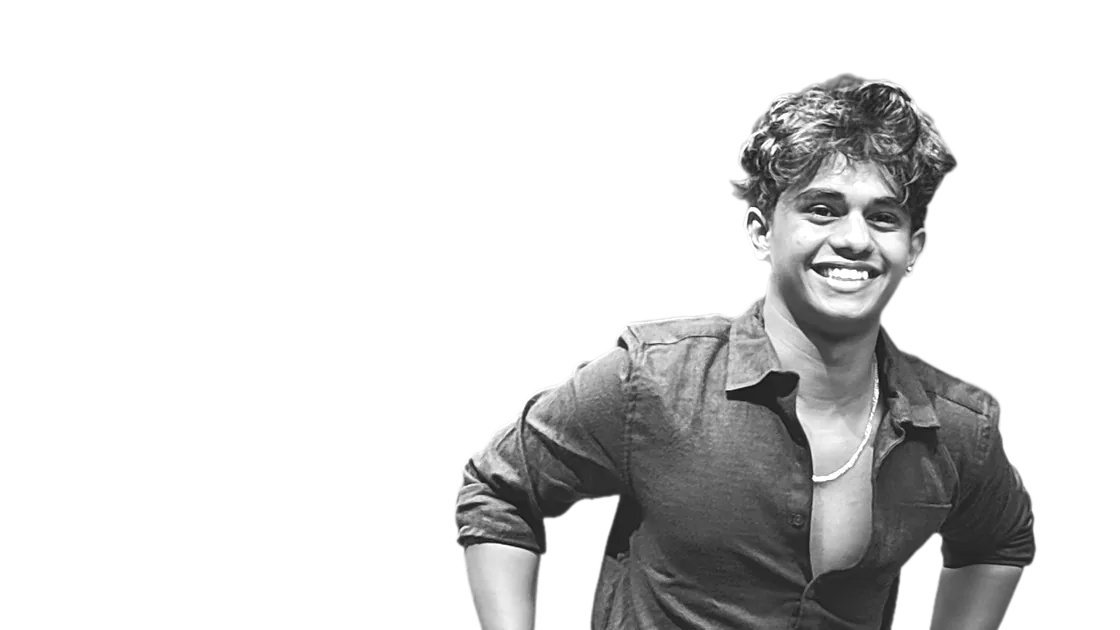
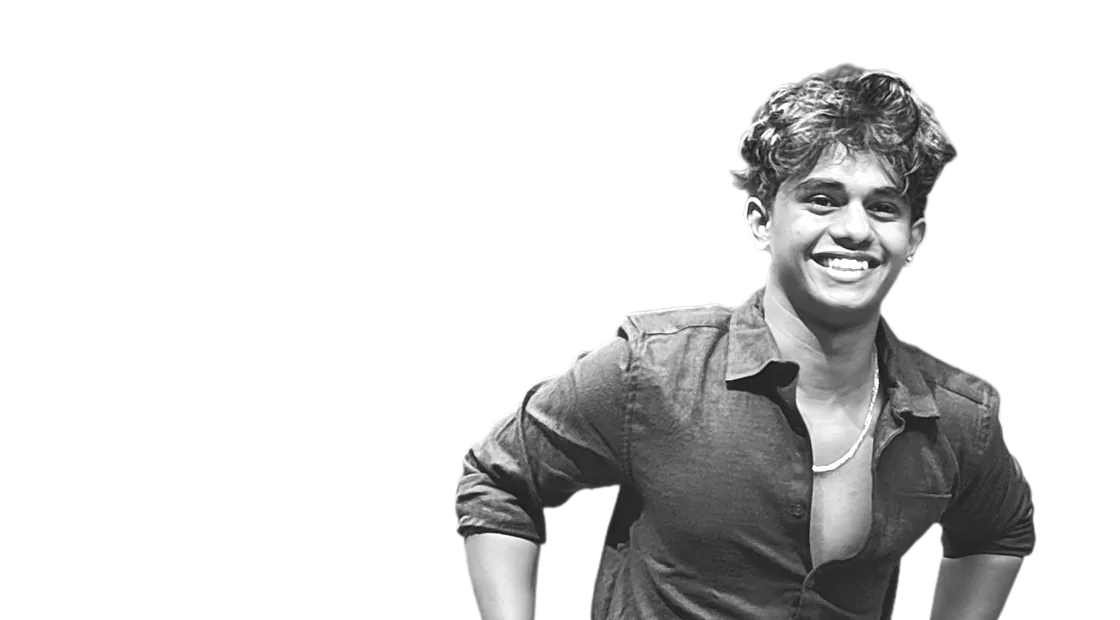
Make the founder bigger than the other two instead of lighting him brighter

Changed region(s): [[0.4062, 0.0919, 0.9062, 0.8887], [0.8125, 0.8274, 0.8438, 0.8887], [0.875, 0.8887, 0.9062, 0.9194]]

diff --git a/src/components/Team.tsx b/src/components/Team.tsx
@@ -8,10 +8,8 @@ import sudhir from "../../public/media/team-sudhir.webp";
 import ajay from "../../public/media/team-ajay.webp";
 
 const LAYERS = { suhail, sudhir, ajay };
-// Back to front: Suhail, the founder, stands in the centre and in front.
+// Back to front: Suhail, the founder, stands in the centre, larger and in front.
 const PAINT = ["sudhir", "ajay", "suhail"] as const;
-// Lit a little brighter than the others while nobody is pointed at.
-const LEAD = "suhail";
 
 /**
  * The team as one black and white group photo, the founder in the centre on a dark studio backdrop,
@@ -67,7 +65,7 @@ export default function Team() {
           <span
             className="team-glow"
             aria-hidden="true"
-            style={{ left: `${m ? m.x : 50}%`, opacity: m ? 1 : 0.8 }}
+            style={{ left: `${m ? m.x : 50}%`, opacity: m ? 1 : 0 }}
           />
           {PAINT.map((id) => {
             const i = TEAM.findIndex((t) => t.id === id);
@@ -78,7 +76,7 @@ export default function Team() {
                 alt=""
                 aria-hidden="true"
                 sizes="(max-width: 1180px) 100vw, 1100px"
-                className={`team-layer ${active === i ? "is-active" : ""} ${id === LEAD ? "is-lead" : ""}`}
+                className={`team-layer ${active === i ? "is-active" : ""}`}
               />
             );
           })}

diff --git a/src/app/globals.css b/src/app/globals.css
@@ -1244,7 +1244,7 @@
   }
   .team-photo {
     position: relative;
-    aspect-ratio: 1120 / 630;
+    aspect-ratio: 1120 / 620;
   }
   .team-layer {
     position: absolute;
@@ -1254,10 +1254,6 @@
     transition:
       filter 0.45s var(--ease-out-soft),
       transform 0.5s var(--ease-out-soft);
-  }
-  /* At rest the founder in the centre is lit a touch brighter than the others. */
-  .team-stage:not(.has-active) .team-layer:not(.is-lead) {
-    filter: brightness(0.8);
   }
   .has-active .team-layer {
     filter: brightness(0.3) contrast(0.9);

diff --git a/scripts/team_photo.py b/scripts/team_photo.py
@@ -28,18 +28,18 @@ DEEP = (29, 31, 56)
 # the chin and the face centre. Faces are scaled so eye-to-chin matches.
 PEOPLE = {
     "sudhir": dict(file="sudhir.jpg", eye=890, chin=998, cx=846, scale=1.0, x=430, lift=0),
-    "suhail": dict(file="suhail.heic", eye=1130, chin=1250, cx=650, scale=1.16, x=720, lift=22),
+    "suhail": dict(file="suhail.heic", eye=1130, chin=1250, cx=650, scale=1.36, x=720, lift=8),
     "ajay": dict(file="ajay.heic", eye=1030, chin=1165, cx=1092, scale=1.0, x=1010, lift=0),
 }
 # Painted back to front: Suhail, the founder, stands in the centre and in
-# front, a little larger than the others.
+# front, clearly larger than the other two.
 PAINT_ORDER = ["sudhir", "ajay", "suhail"]
 EYE_TO_CHIN = 95
 TONE_MEAN, TONE_STD = 112, 58
 CANVAS = (1440, 720)
 EYE_Y = 300
 # Final frame: trims the empty space above the tallest head and at the sides.
-FRAME = (160, 90, 1280, 720)
+FRAME = (160, 100, 1280, 720)
 
 
 def cut_out(p, session):
